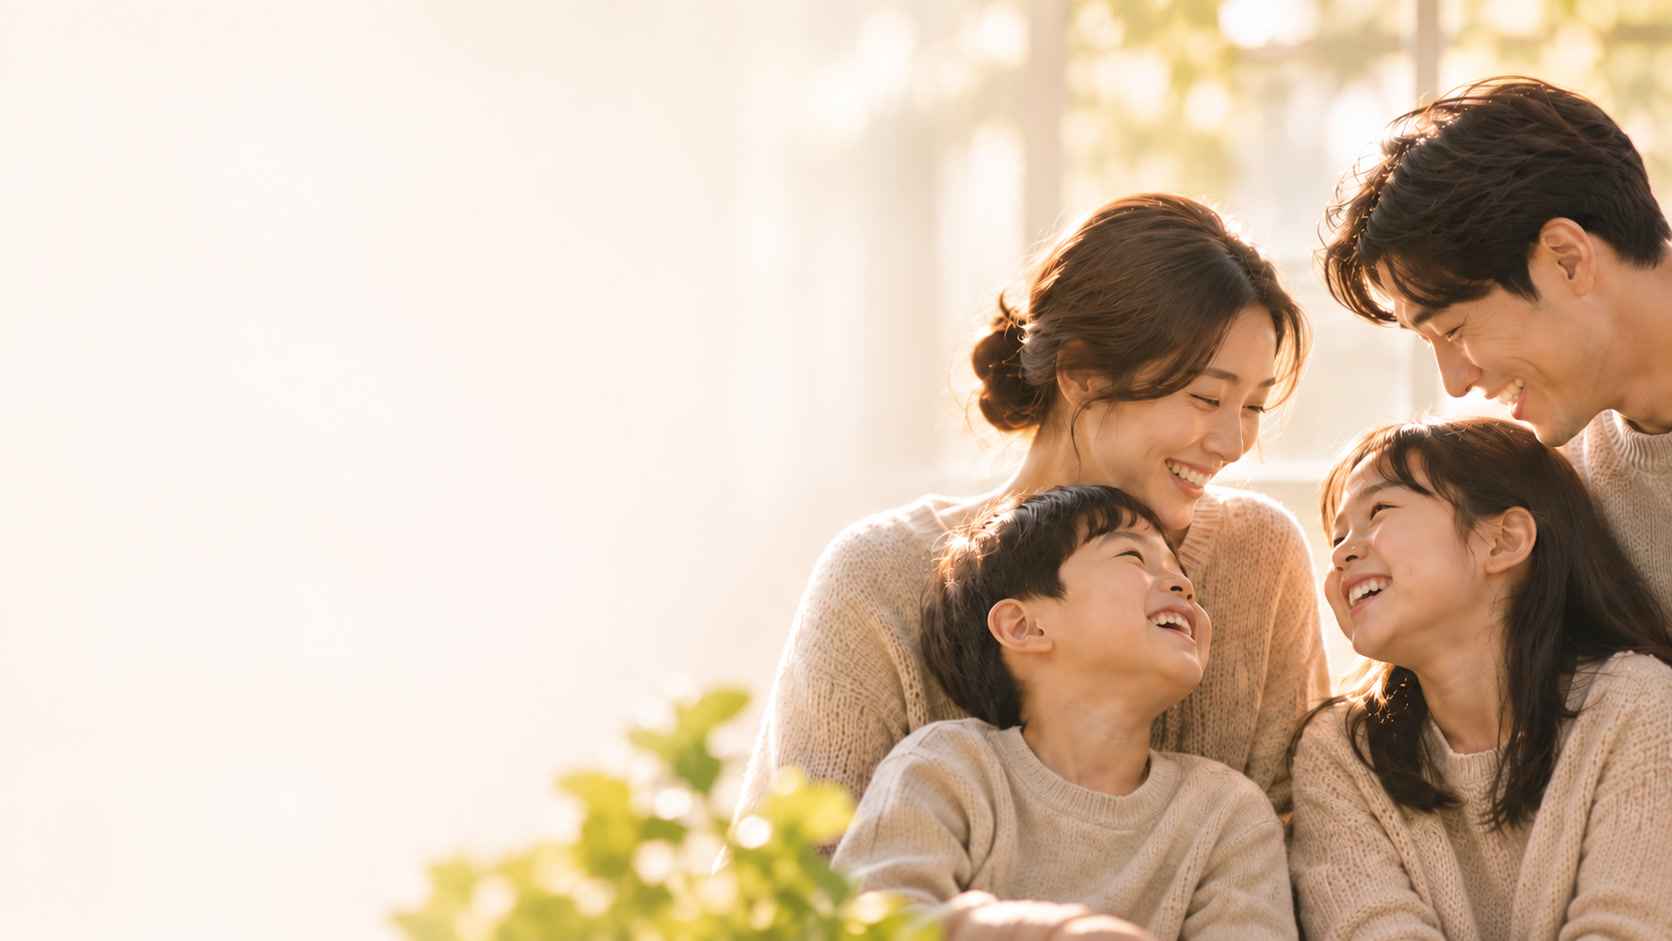
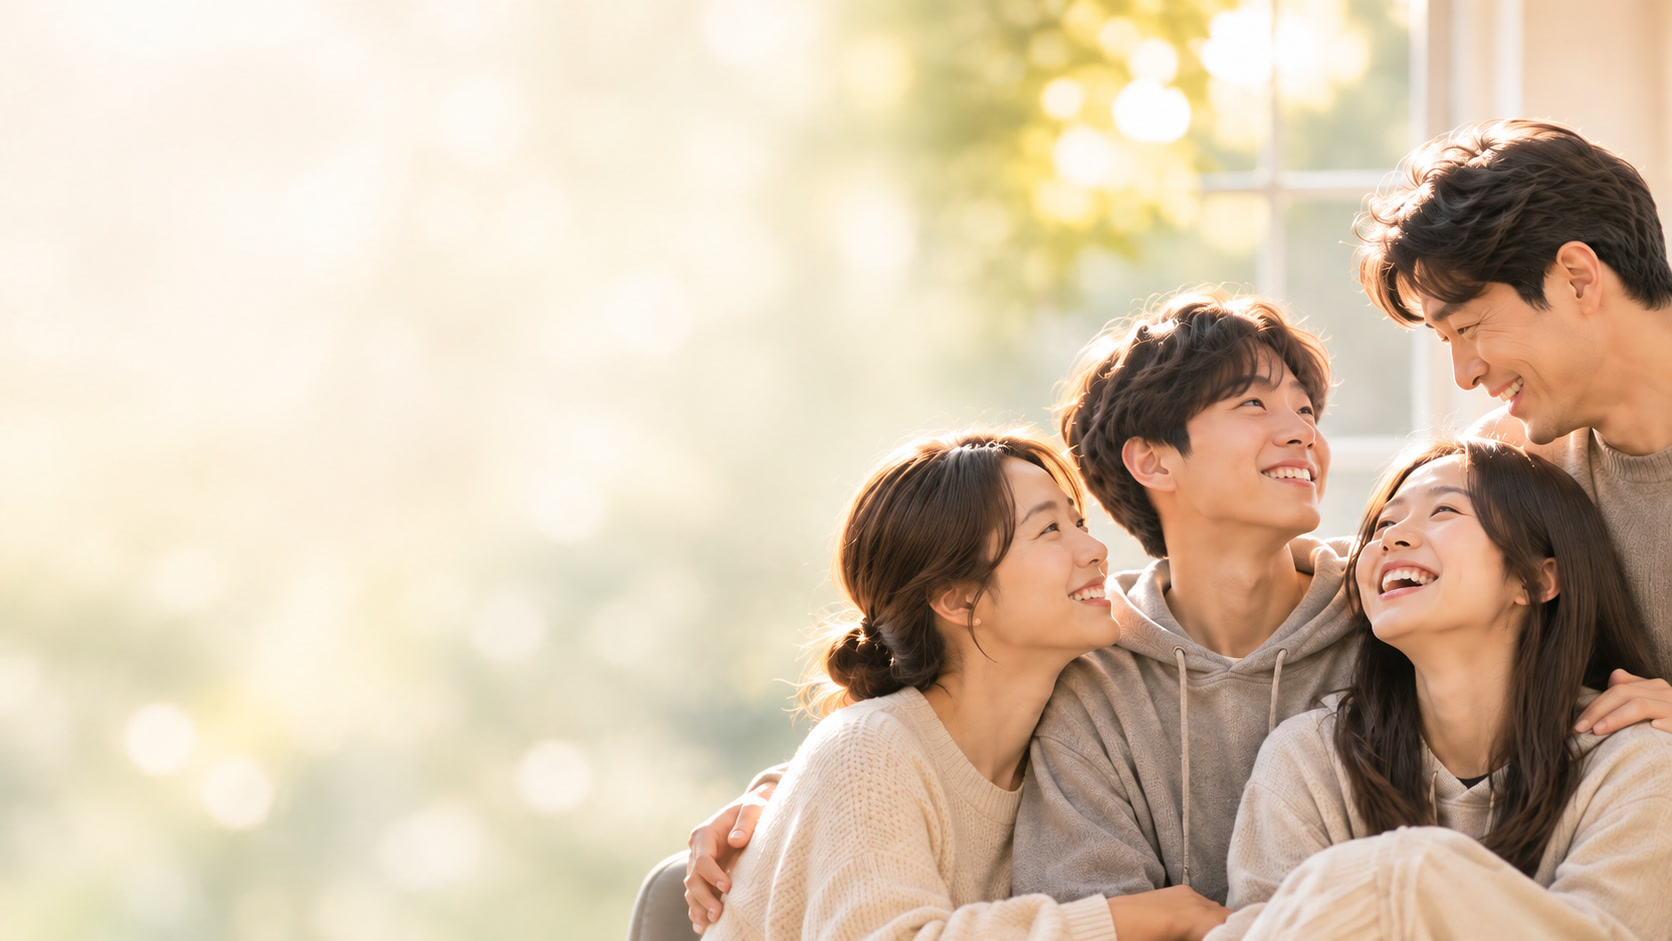
fix(site): Parenting 세미나 랜딩 배경을 새 가족 사진으로 교체
오른쪽 아버지가 잘리지 않도록 background-position을 right로 맞춘다.

diff --git a/css/parenting-seminar-landing.css b/css/parenting-seminar-landing.css
@@ -16,21 +16,19 @@
   background-color: #F4EFE4;
   background-image: url("/assets/parenting/parenting-seminar-hero.jpg");
   background-size: cover;
-  background-position: 72% center;
+  background-position: right center;
   background-repeat: no-repeat;
 }
 
 @media (min-width: 640px) {
   .ps-landing .ps-hero {
     min-height: min(78vh, 40rem);
-    background-position: 78% center;
   }
 }
 
 @media (min-width: 1024px) {
   .ps-landing .ps-hero {
     min-height: min(82vh, 44rem);
-    background-position: right center;
   }
 }
 

diff --git a/parenting-seminar.html b/parenting-seminar.html
@@ -47,7 +47,7 @@
       }
     };
   </script>
-  <link rel="stylesheet" href="css/parenting-seminar-landing.css?v=20261107-org-seminar" />
+  <link rel="stylesheet" href="css/parenting-seminar-landing.css?v=20261107-seminar-hero-v2" />
 </head>
 <body class="ps-landing antialiased">
   <header class="sticky top-0 z-40 bg-white/90 backdrop-blur-md border-b border-er-sand/50">
